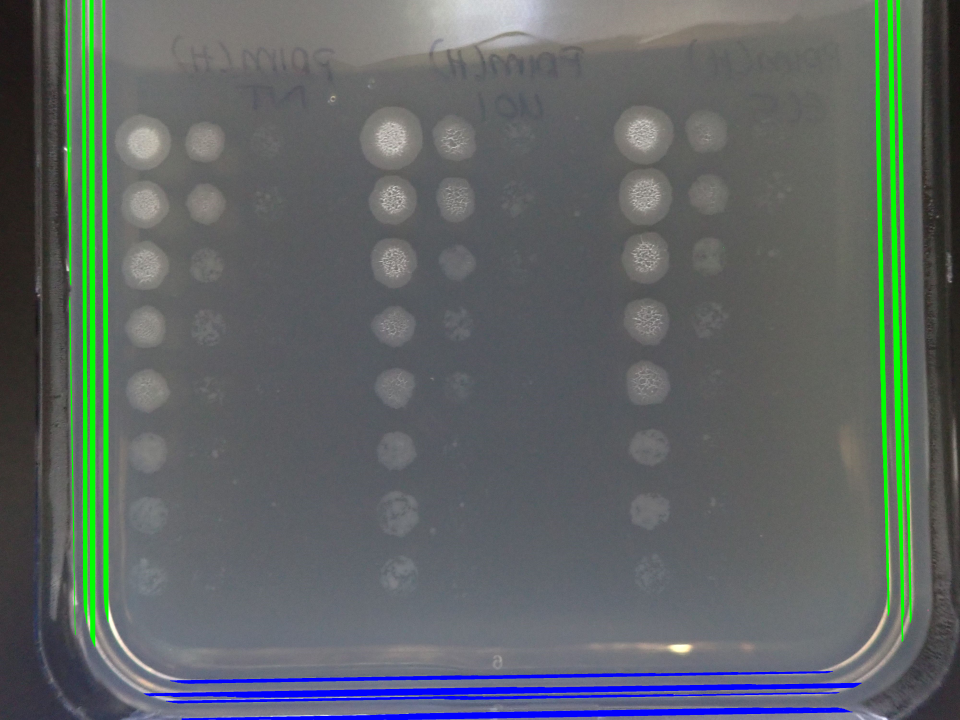
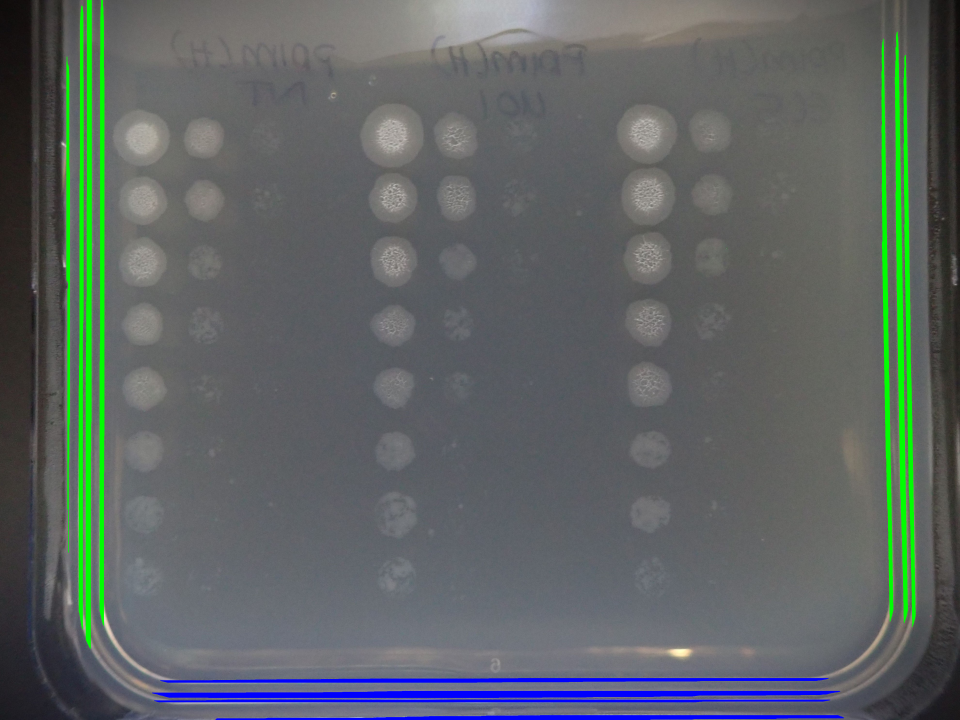
perspectiveStillBrokenbutIntergrated

diff --git a/ImageProcessing.py b/ImageProcessing.py
@@ -480,7 +480,7 @@ def detect_lines(image):
     stretched, blurred, gray_image = stretch_and_gray(image, 90, 150)
     binary_image, contour_img, final_binary, block_size = binarize(gray_image, image)
     gray_image = (binary_image * 255).astype(np.uint8) 
-    lines = cv2.HoughLinesP(gray_image, 1, np.pi/180, threshold=30, minLineLength=500, maxLineGap=20)
+    lines = cv2.HoughLinesP(gray_image, 1, np.pi/180, threshold=30, minLineLength=800, maxLineGap=20)
     return lines
 
 def draw_lines_and_measure(image, vertical_lines):
@@ -505,28 +505,25 @@ def draw_lines_and_measure(image, vertical_lines):
                     cv2.FONT_HERSHEY_SIMPLEX, 0.7, (255, 255, 0), 2)
     
     return marked_image
+
+
 def classify_lines(lines, image_shape):
     vertical_lines = []
-    horizontal_lines = []
     if lines is not None:
         for line in lines:
             x1, y1, x2, y2 = line[0]
             angle = np.arctan2(y2 - y1, x2 - x1) * 180. / np.pi
             length = np.sqrt((x2 - x1)**2 + (y2 - y1)**2)
             
-            if abs(angle) > 45:  # More lenient angle for vertical lines
-                if length > image_shape[0] * 0.3:  # Longer lines
+            if abs(angle) > 80:  # More strict angle for vertical lines
+                if length > image_shape[0] * 0.5:  # Longer lines
                     vertical_lines.append((x1, y1, x2, y2))
-            elif abs(angle) < 45:  # Horizontal lines
-                if length > image_shape[1] * 0.3:  # Longer lines
-                    horizontal_lines.append((x1, y1, x2, y2))
     
     # Sort vertical lines from left to right
     vertical_lines.sort(key=lambda line: min(line[0], line[2]))
-    # Sort horizontal lines from top to bottom
-    horizontal_lines.sort(key=lambda line: min(line[1], line[3]))
     
-    return vertical_lines, horizontal_lines
+    return vertical_lines
+
 
 def draw_debug_lines(image, vertical_lines, horizontal_lines):
     debug_image = image.copy()
@@ -542,35 +539,43 @@ def draw_debug_lines(image, vertical_lines, horizontal_lines):
     cv2.waitKey(0)
     cv2.destroyAllWindows()
 
-def correct_perspective(image, vertical_lines, horizontal_lines):
+
+def correct_perspective(image, vertical_lines):
     h, w = image.shape[:2]
     
-    if len(vertical_lines) < 2 or len(horizontal_lines) < 2:
-        print("Not enough lines detected for perspective correction.")
+    if len(vertical_lines) < 2:
+        print("Not enough vertical lines detected for perspective correction.")
         return image
     
-    # Use the leftmost and rightmost vertical lines
+    # Use the leftmost and rightmost vertical lines for perspective correction
     left_line = vertical_lines[0]
     right_line = vertical_lines[-1]
     
-    # Use the topmost and bottommost horizontal lines
-    top_line = horizontal_lines[0]
-    bottom_line = horizontal_lines[-1]
+    # Calculate the angles of the lines
+    left_angle = np.arctan2(left_line[3] - left_line[1], left_line[2] - left_line[0])
+    right_angle = np.arctan2(right_line[3] - right_line[1], right_line[2] - right_line[0])
+    
+    # Calculate the average angle to determine the tilt
+    avg_angle = (left_angle + right_angle) / 2
+    
+    # Calculate the shift at the top of the image
+    left_shift = int(h * np.tan(avg_angle))
+    right_shift = int(h * np.tan(avg_angle))
     
     # Define source points (top-left, top-right, bottom-right, bottom-left)
     src_pts = np.float32([
-        [left_line[0], top_line[1]],
-        [right_line[0], top_line[1]],
-        [right_line[2], bottom_line[3]],
-        [left_line[2], bottom_line[3]]
+        [left_line[0] + left_shift, 0],
+        [right_line[0] + right_shift, 0],
+        [right_line[2], h - 1],
+        [left_line[2], h - 1]
     ])
     
     # Define destination points
     dst_pts = np.float32([
-        [0, 0],
-        [w - 1, 0],
-        [w - 1, h - 1],
-        [0, h - 1]
+        [left_line[2], 0],
+        [right_line[2], 0],
+        [right_line[2], h - 1],
+        [left_line[2], h - 1]
     ])
     
     # Get the perspective transform matrix
@@ -580,6 +585,23 @@ def correct_perspective(image, vertical_lines, horizontal_lines):
     result = cv2.warpPerspective(image, matrix, (w, h))
     
     return result
+def draw_debug_perspective(image, src_pts, dst_pts):
+    debug_image = image.copy()
+    
+    # Draw source points
+    for pt in src_pts:
+        cv2.circle(debug_image, tuple(pt.astype(int)), 5, (0, 0, 255), -1)
+    
+    # Draw lines connecting source points
+    cv2.line(debug_image, tuple(src_pts[0].astype(int)), tuple(src_pts[1].astype(int)), (0, 255, 0), 2)
+    cv2.line(debug_image, tuple(src_pts[1].astype(int)), tuple(src_pts[2].astype(int)), (0, 255, 0), 2)
+    cv2.line(debug_image, tuple(src_pts[2].astype(int)), tuple(src_pts[3].astype(int)), (0, 255, 0), 2)
+    cv2.line(debug_image, tuple(src_pts[3].astype(int)), tuple(src_pts[0].astype(int)), (0, 255, 0), 2)
+    
+    cv2.imwrite("debug_perspective.png", resize_for_display(debug_image))
+    cv2.imshow("Perspective Correction", resize_for_display(debug_image))
+    cv2.waitKey(0)
+    cv2.destroyAllWindows()
 
 def correct_perspective_pipeline(original_image):
     # Process the binarized image

diff --git a/AbSkewGrid.py b/AbSkewGrid.py
@@ -2,8 +2,6 @@ import cv2
 import numpy as np
 from ImageProcessing import *
 
-
-
 def detect_lines(image):
     gray = cv2.cvtColor(image, cv2.COLOR_BGR2GRAY)
     lines = cv2.HoughLinesP(gray, 1, np.pi/180, threshold=50, minLineLength=1000, maxLineGap=10)
@@ -25,6 +23,7 @@ def classify_lines(lines, image_shape):
     vertical_lines.sort(key=lambda line: min(line[0], line[2]))
     
     return vertical_lines
+
 def correct_perspective(image, vertical_lines):
     h, w = image.shape[:2]
     
@@ -94,6 +93,23 @@ def draw_lines_and_measure(image, vertical_lines):
     
     return marked_image
 
+def draw_debug_perspective(image, src_pts, dst_pts):
+    debug_image = image.copy()
+    
+    # Draw source points
+    for pt in src_pts:
+        cv2.circle(debug_image, tuple(pt.astype(int)), 5, (0, 0, 255), -1)
+    
+    # Draw lines connecting source points
+    cv2.line(debug_image, tuple(src_pts[0].astype(int)), tuple(src_pts[1].astype(int)), (0, 255, 0), 2)
+    cv2.line(debug_image, tuple(src_pts[1].astype(int)), tuple(src_pts[2].astype(int)), (0, 255, 0), 2)
+    cv2.line(debug_image, tuple(src_pts[2].astype(int)), tuple(src_pts[3].astype(int)), (0, 255, 0), 2)
+    cv2.line(debug_image, tuple(src_pts[3].astype(int)), tuple(src_pts[0].astype(int)), (0, 255, 0), 2)
+    
+    cv2.imwrite("debug_perspective.png", resize_for_display(debug_image))
+    cv2.imshow("Perspective Correction", resize_for_display(debug_image))
+    cv2.waitKey(0)
+    cv2.destroyAllWindows()
 
 def process_image(image_path):
     image = cv2.imread(image_path)
@@ -112,6 +128,34 @@ def process_image(image_path):
         print("Not enough vertical lines detected for perspective correction.")
         return
     
+    # Debug: Draw detected lines
+    debug_image = image.copy()
+    for line in vertical_lines:
+        x1, y1, x2, y2 = line
+        cv2.line(debug_image, (x1, y1), (x2, y2), (0, 255, 0), 2)
+    cv2.imshow('Detected Vertical Lines', resize_for_display(debug_image))
+    cv2.waitKey(0)
+    
+    # Debug: Show perspective correction points
+    h, w = image.shape[:2]
+    left_line = vertical_lines[0]
+    right_line = vertical_lines[-1]
+    left_shift = int(h * np.tan(np.arctan2(left_line[3] - left_line[1], left_line[2] - left_line[0])))
+    right_shift = int(h * np.tan(np.arctan2(right_line[3] - right_line[1], right_line[2] - right_line[0])))
+    src_pts = np.float32([
+        [left_line[0] + left_shift, 0],
+        [right_line[0] + right_shift, 0],
+        [right_line[2], h - 1],
+        [left_line[2], h - 1]
+    ])
+    dst_pts = np.float32([
+        [left_line[2], 0],
+        [right_line[2], 0],
+        [right_line[2], h - 1],
+        [left_line[2], h - 1]
+    ])
+    draw_debug_perspective(image, src_pts, dst_pts)
+    
     corrected_image = correct_perspective(image, vertical_lines)
     
     # Detect lines again on the corrected image
@@ -125,7 +169,6 @@ def process_image(image_path):
     
     cv2.waitKey(0)
     cv2.destroyAllWindows()
-
 
 # Usage
 image_path = "C:/Users/ThinkPad/Documents/AA ACADEMIC 2024/Thesis/Image Segmentation/low_contrast_contours_filled.png"

diff --git a/GUI.py b/GUI.py
@@ -535,6 +535,7 @@ def upload_image(window):
         # Debug: Save original image
         cv2.imwrite("debug_original.png", window.original_image)
         
+        # Apply perspective correction
         window.original_image = correct_perspective_pipeline(window.original_image)
         
         # Debug: Save corrected image
